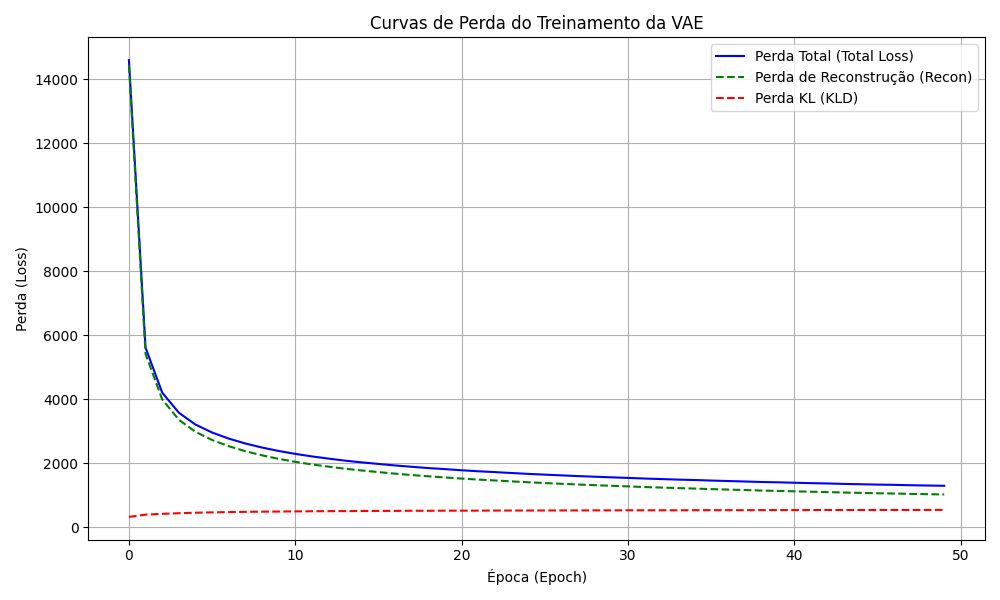
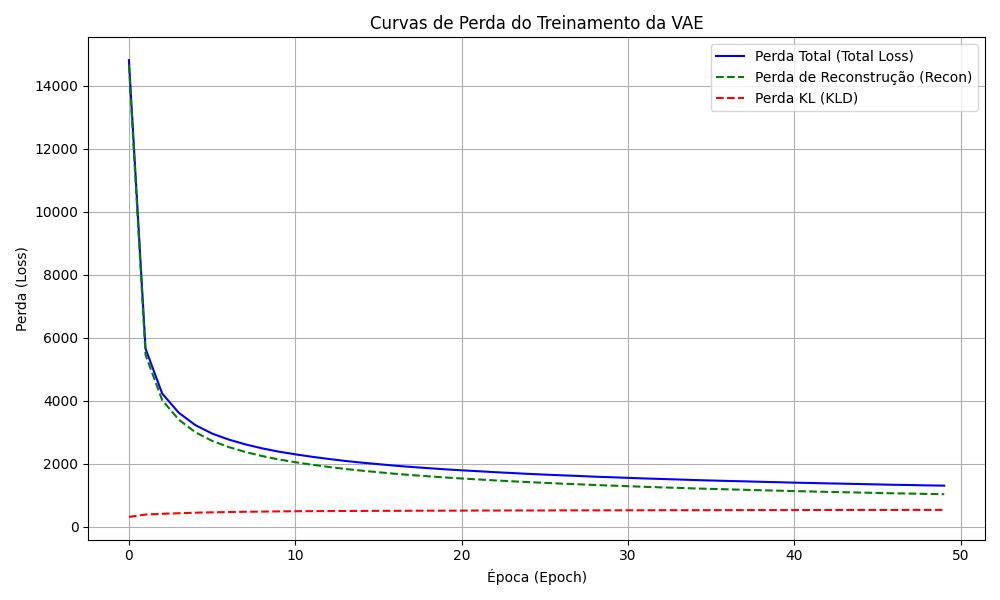
curva de treinamento

diff --git a/README.md b/README.md
@@ -105,4 +105,17 @@ O decoder reconstrói os chunks a partir do vetor latente e das condições forn
 ### Pontos Fracos
 - **Custo Computacional**: Redes convolucionais 3D e o cálculo da perda podem ser computacionalmente caros.
 - **Qualidade da Reconstrução**: A reconstrução pode ser limitada pela capacidade do vetor latente de capturar toda a informação relevante.
-- **Treinamento Sensível**: O equilíbrio entre os termos da perda (reconstrução e KL) pode ser difícil de ajustar..
+- **Treinamento Sensível**: O equilíbrio entre os termos da perda (reconstrução e KL) pode ser difícil de ajustar.
+
+## Treinamento
+
+O treinamento do modelo VAE foi realizado utilizando o dataset de chunks de Minecraft, com o objetivo de aprender uma representação latente que permita a reconstrução e geração de novos chunks. Durante o treinamento, a perda total foi composta por dois termos principais:
+
+1. **Perda de Reconstrução**: Mede a diferença entre os chunks reais e os reconstruídos pelo modelo.
+2. **Divergência KL**: Regulariza o espaço latente para seguir uma distribuição normal padrão.
+
+Abaixo está a curva de perda do treinamento, que mostra a evolução da perda total, da perda de reconstrução e da divergência KL ao longo das épocas:
+
+![Curva de Perda do Treinamento](media/vae_loss_curve.png)
+
+O modelo final foi salvo após atingir a melhor perda total observada durante o treinamento.
